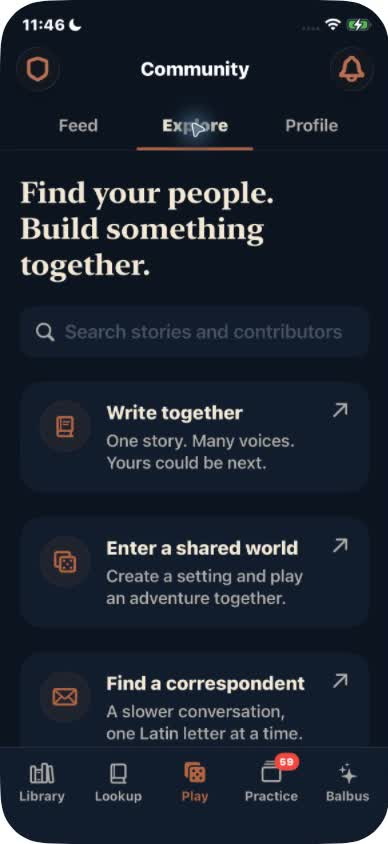
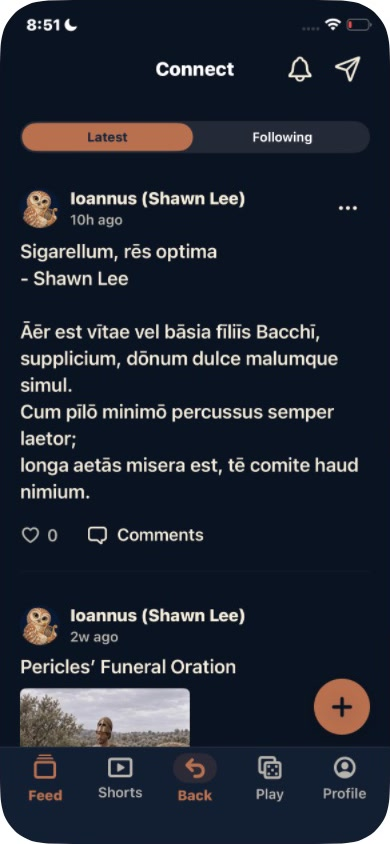
Refresh community screenshot with profile photo and Latin poem

diff --git a/index.html b/index.html
@@ -22,10 +22,10 @@
 </div>
 </section>
 <section class="section film" id="voices" aria-labelledby="voices-title"><div><h2 id="voices-title">Hear the rhythm<br>of the verse.</h2><p class="section-intro">Listen to poetry recited with accurate rhythm and reconstructed pronunciation.</p></div><figure class="demo"><video controls playsinline preload="none" controlslist="nodownload" poster="/viva-antiqua/assets/aeneid-verse-poster.jpg" width="582" height="1266" aria-label="Aeneid Book II verse recitation from Venit summa dies to Danai dominantur in urbe, actual iPhone playback"><source src="/viva-antiqua/media/aeneid-verse-iphone.mp4" type="video/mp4"></video></figure></section>
-<section class="section film" id="play" aria-labelledby="play-title"><div><h2 id="play-title">Stories, role-play<br>and pen pals.</h2><ul class="play-features"><li><strong>Collaborative stories</strong><span>Take turns writing the next part with other learners.</span></li><li><strong>Role-playing adventures</strong><span>Play a character and shape the story through your choices.</span></li><li><strong>Latin pen pals</strong><span>Exchange private letters, with AI feedback on your writing.</span></li></ul></div><figure class="book-screen"><a href="/viva-antiqua/assets/play-iphone.jpg"><img src="/viva-antiqua/assets/play-iphone.jpg" width="388" height="844" loading="lazy" alt="Viva Antiqua Play: write together, enter a shared world, and find a correspondent."></a></figure></section>
+<section class="section film" id="play" aria-labelledby="play-title"><div><h2 id="play-title">Stories, role-play<br>and pen pals.</h2><ul class="play-features"><li><strong>Collaborative stories</strong><span>Take turns writing the next part with other learners.</span></li><li><strong>Role-playing adventures</strong><span>Play a character and shape the story through your choices.</span></li><li><strong>Latin pen pals</strong><span>Exchange private letters, with AI feedback on your writing.</span></li></ul></div><figure class="book-screen"><a href="/viva-antiqua/assets/play-iphone.jpg?v=2"><img src="/viva-antiqua/assets/play-iphone.jpg?v=2" width="388" height="844" loading="lazy" alt="Viva Antiqua community feed with a Latin poem and Pericles’ Funeral Oration."></a></figure></section>
 <section class="section film homer-section" id="iliad" aria-labelledby="homer-title"><div><h2 id="homer-title">Homer sings.</h2><p class="section-intro">All 48 books of the Iliad and Odyssey sung to reflect their metre and pitch accent.</p></div><figure class="demo"><video controls playsinline preload="none" controlslist="nodownload" poster="/viva-antiqua/assets/odyssey-song-poster.jpg?v=2" width="582" height="1266" aria-label="Odyssey Book I, lines 1–9: actual Viva Antiqua iPhone playback with Greek, English, and sound"><source src="/viva-antiqua/media/odyssey-song-iphone.mp4?v=2" type="video/mp4">Your browser does not support embedded video.</video></figure></section>
 <section class="section film" id="watch" aria-labelledby="film-title"><div><h2 id="film-title">Bring antiquity<br>to life.</h2><p class="section-intro">Recreate scenes from history in their original languages with our voice models.</p></div><figure><video controls playsinline preload="none" controlslist="nodownload" poster="/viva-antiqua/assets/pericles-poster.jpg" width="720" height="1280" aria-label="Pericles speech: AI-generated reconstruction with Ancient Greek audio and bilingual subtitles"><source src="/viva-antiqua/media/pericles-speech.mp4" type="video/mp4">Your browser does not support embedded video.</video></figure></section>
 <div class="release"><img class="brand-lockup" src="/viva-antiqua/assets/viva-antiqua-brand-final.png" width="1402" height="1122" alt="Viva Antiqua"><div><p>Latin &amp; Ancient Greek in one place.</p></div><span>Preparing for App Store release</span></div>
 </main><footer><div class="footer-top"><a class="brand" href="/viva-antiqua/"><img class="brand-lockup" src="/viva-antiqua/assets/viva-antiqua-brand-final.png" width="1402" height="1122" alt="Viva Antiqua"></a><div class="links"><a href="/viva-antiqua/privacy/">Privacy</a><a href="/viva-antiqua/terms/">Terms</a><a href="/viva-antiqua/support/">Support</a></div></div><small>Pre-release preview · Policies and public contact details are being finalized.</small></footer>
-<script src="/viva-antiqua/mobile-story.js?v=copy-3" defer></script>
+<script src="/viva-antiqua/mobile-story.js?v=community-20261031" defer></script>
 </body></html>

diff --git a/mobile-story.js b/mobile-story.js
@@ -11,7 +11,7 @@
       {label:'02 / UNDERSTAND',title:'Ask the text<br><em>and go deeper</em>',text:'Explore grammar and meaning with your AI tutor',image:'ask-balbus-iphone.jpg',button:'Explore the screen',focus:'balbus'},
       {label:'03 / REMEMBER',title:'Make it<br><em>stay with you</em>',text:'Review your saved words and passages',image:'review-card-iphone.png',button:'Explore the screen',focus:'review'}]},
     {id:'verse',kind:'verse',label:'LATIN · RECONSTRUCTED PRONUNCIATION',title:'Feel the rhythm<br><em>of poetry</em>',text:'Hear the Aeneid in its original metre',image:'aeneid-verse-poster.jpg',video:'aeneid-verse-iphone.mp4',button:'Listen to the Aeneid'},
-    {id:'community',kind:'community',label:'A LANGUAGE TO SHARE',title:'Create<br><em>and share</em>',text:'Write stories, role-play, and share videos with fellow learners',image:'play-iphone.jpg',button:'Explore the screen'},
+    {id:'community',kind:'community',label:'A LANGUAGE TO SHARE',title:'Create<br><em>and share</em>',text:'Write stories, role-play, and share videos with fellow learners',image:'play-iphone.jpg?v=2',button:'Explore the screen'},
     {id:'homer',kind:'homer',label:'THE ILIAD & THE ODYSSEY',title:'Homer<br><em>in song</em>',text:'All 48 books of the Iliad and the Odyssey, sung in Ancient Greek with accurate meter and pitch accent',image:'odyssey-song-poster.jpg?v=2',video:'odyssey-song-iphone.mp4?v=2',button:'Listen to Homer'},
     {id:'speech',kind:'speech',label:'ATHENS · PERICLES',title:'History<br><em>brought to life</em>',text:'Pericles’ Funeral Oration in Ancient Greek',image:'pericles-poster.jpg',video:'pericles-speech-mobile.mp4?v=2',button:'Watch the speech'}
   ];
